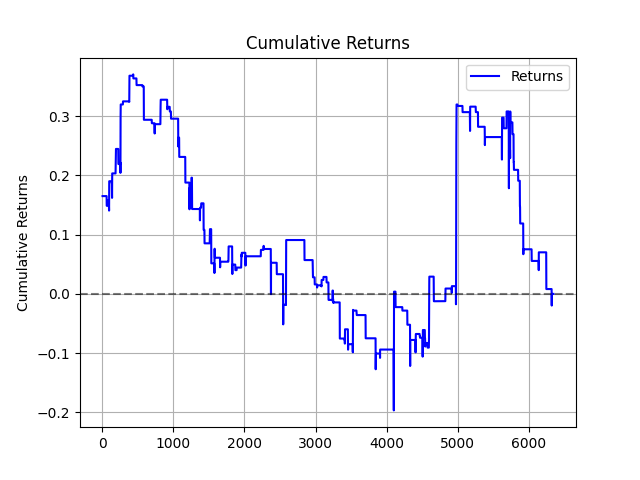
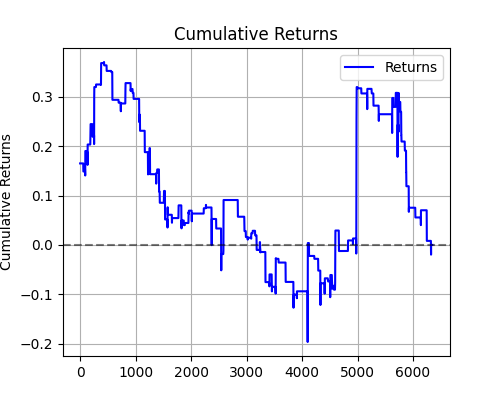
Draw.

diff --git a/description/description.tex b/description/description.tex
@@ -4,6 +4,8 @@
 
 \usepackage{csquotes}
 
+\usepackage{float}
+
 \usepackage[
     backend=biber,
     style=authoryear-icomp,
@@ -42,11 +44,21 @@
 This document documents the simulated in-sample performance of Bot Tau's trading
 strategy. It does not document the strategy itself, which is proprietary.
 
+\section{Cumulative Returns}
+
+\begin{figure}[H]
+    \begin{center}
+        \includegraphics{../generated/cumulative_returns.png}
+    \end{center}
+    %\caption{}
+\end{figure}
+
+
 \section{Drawdown}
 
 Maximum drawdown is \constant_maxdrawdown \%.
 
-\begin{figure}
+\begin{figure}[H]
     \begin{center}
         \includegraphics{../generated/drawdown.png}
     \end{center}

diff --git a/main.py b/main.py
@@ -178,7 +178,7 @@ def main() -> int:
 
     df['drawdown'] = (df['comp_cumulative_returns'] - df['cumulative_max']) / df['cumulative_max']
 
-    plt.figure()
+    plt.figure(figsize=(5, 4))
     plt.plot(df['drawdown'], label="Drawdown")
     plt.title("Drawdown")
     plt.legend()
@@ -195,7 +195,7 @@ def main() -> int:
 
     # ---- Cum sum returns ----
     df['cumulative_returns'] = df['returns'].cumsum()
-    plt.figure()
+    plt.figure(figsize=(5, 4))
     plt.plot(df['cumulative_returns'], label='Returns', color='blue')
     plt.axhline(0, linestyle='dashed', color='black', alpha=0.5)
     plt.title("Cumulative Returns")
